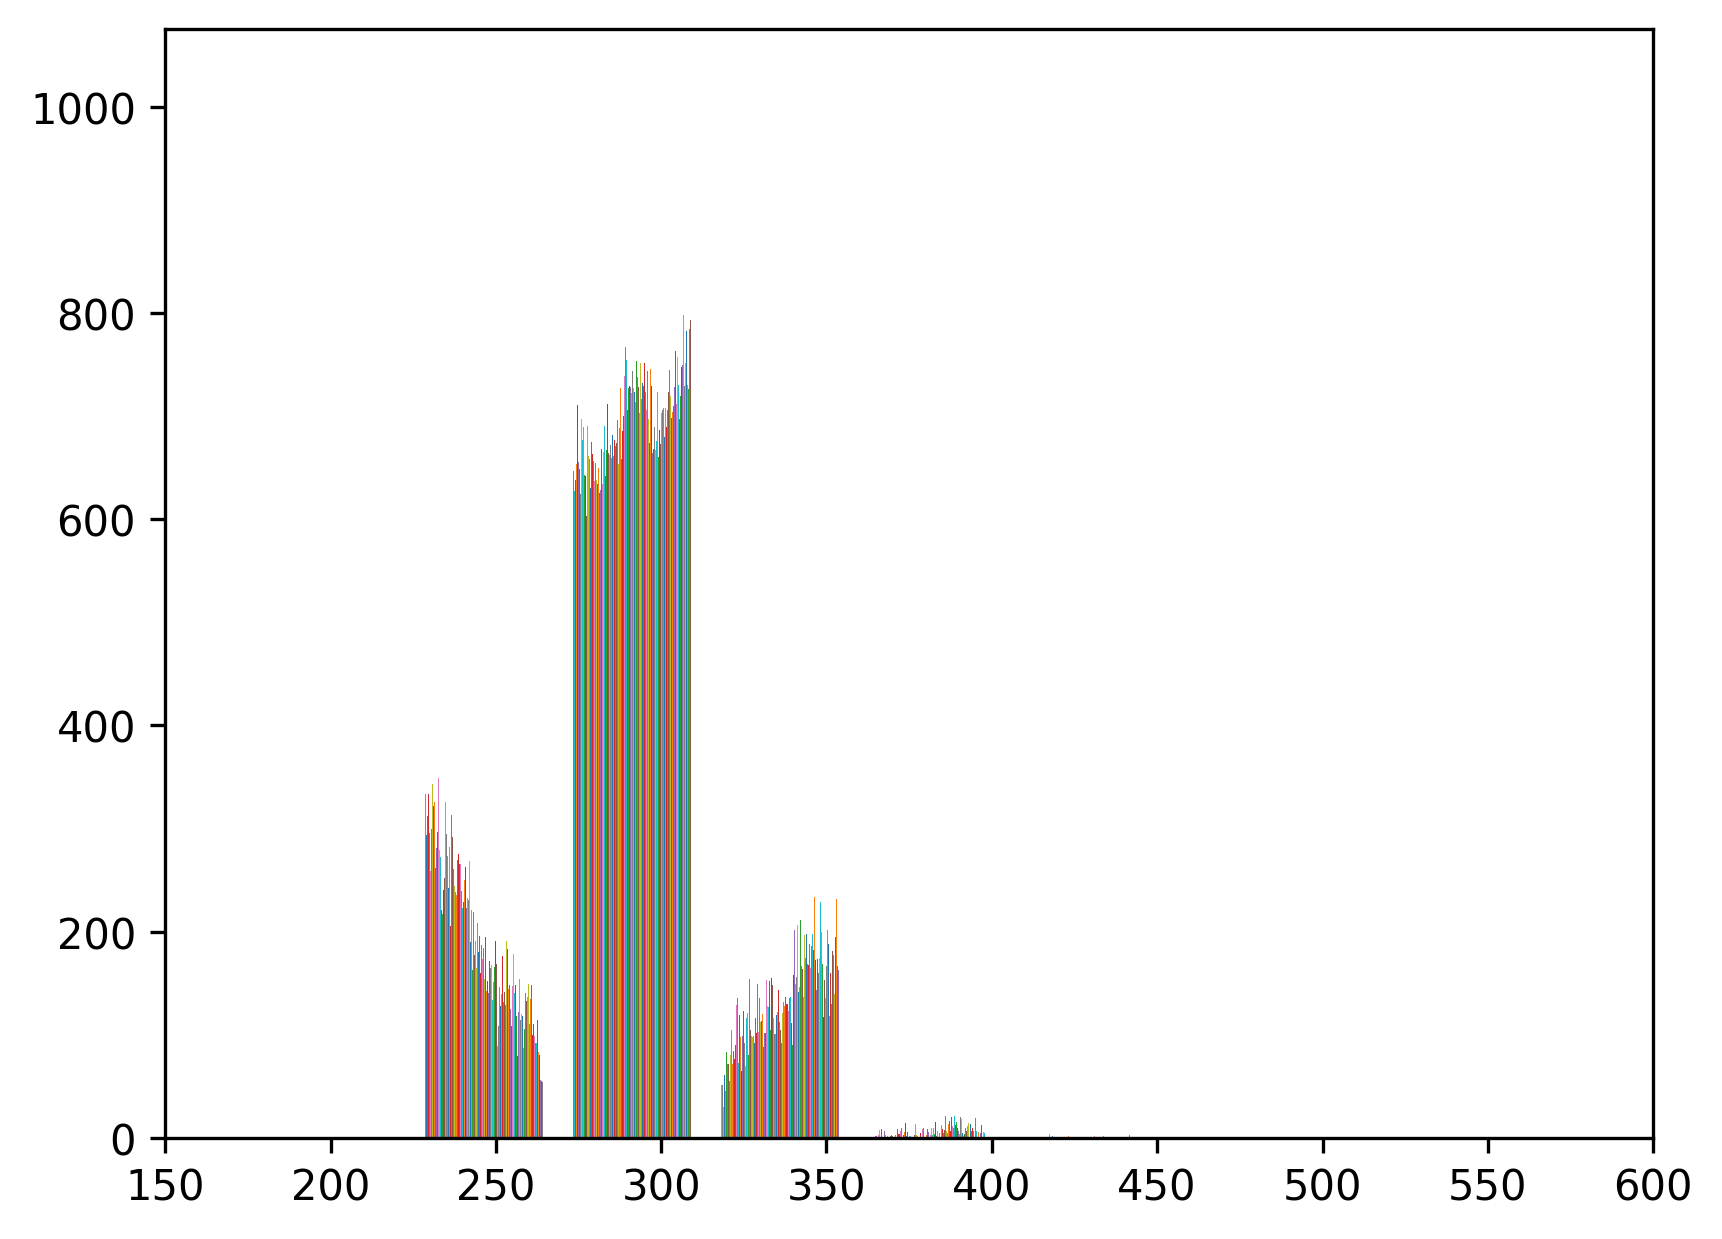
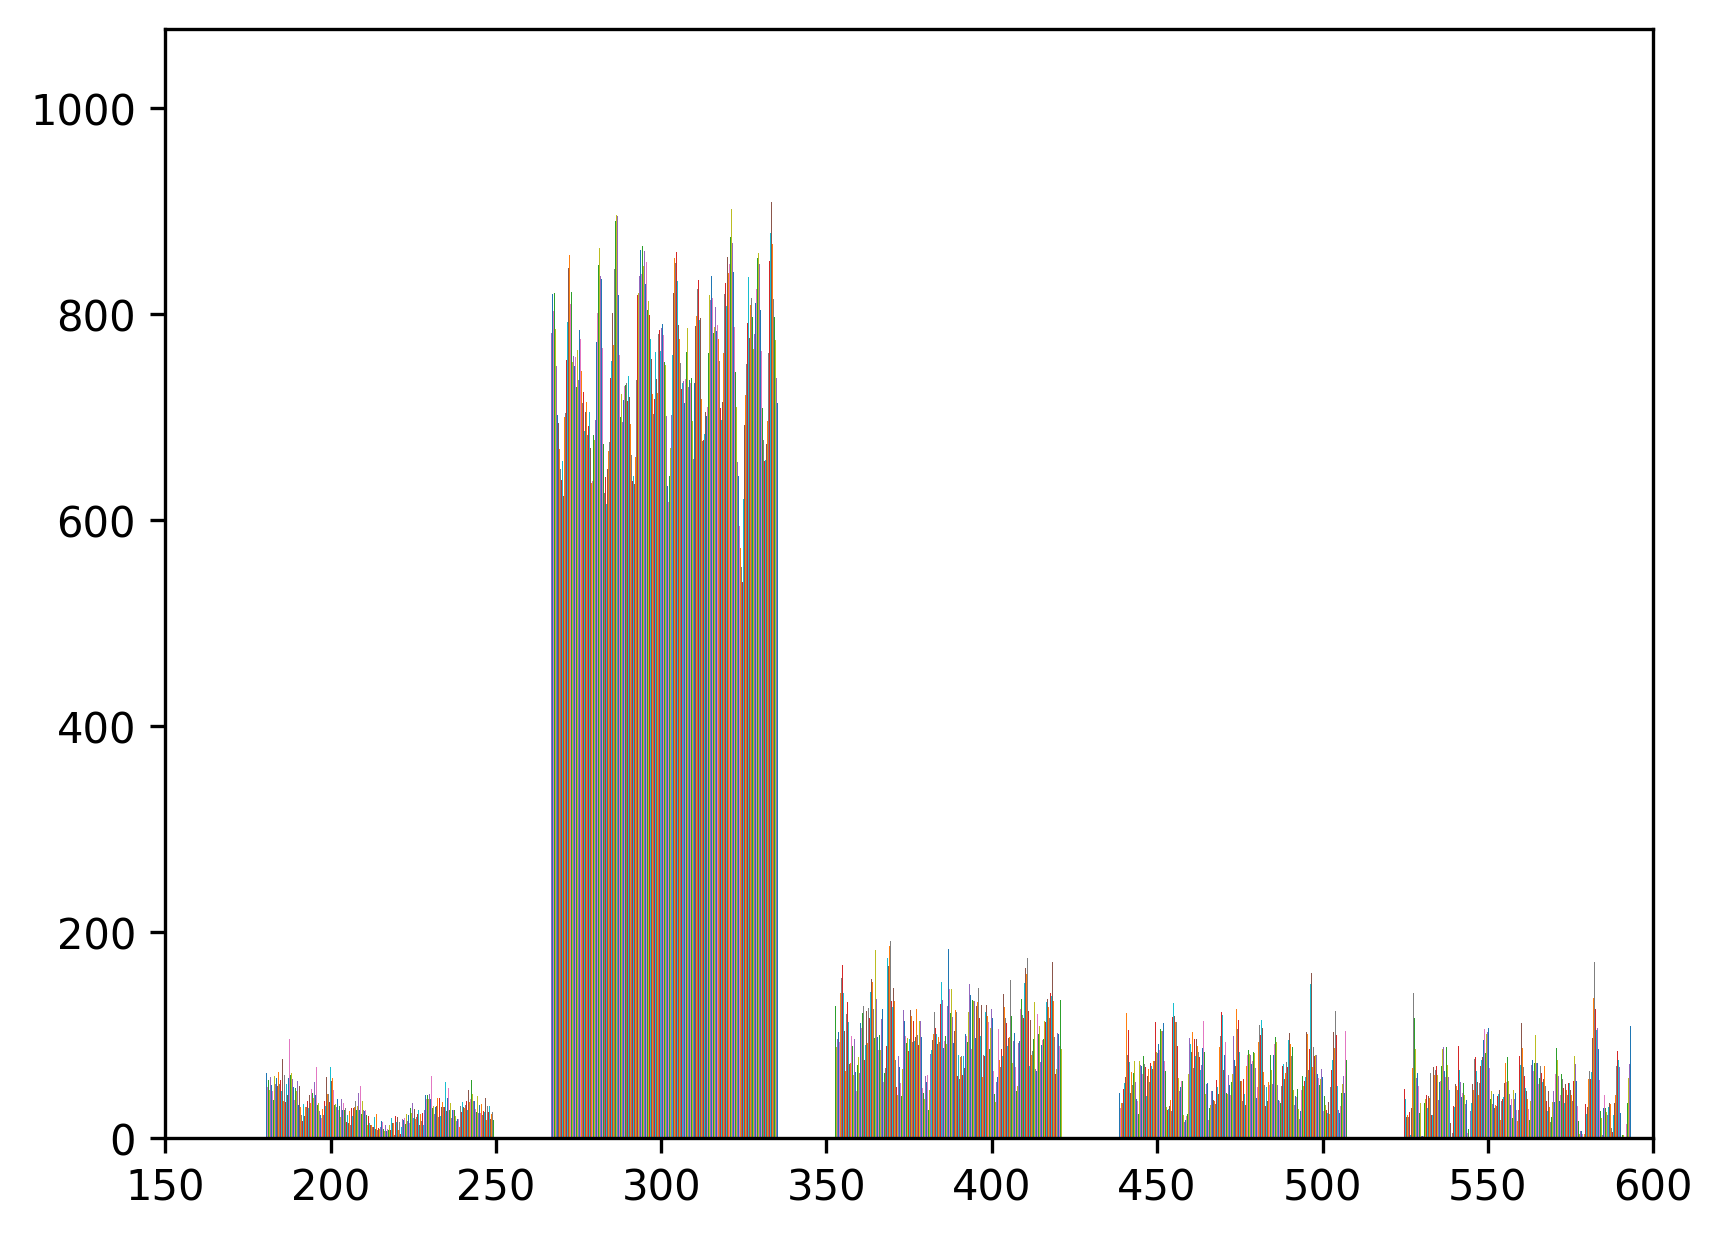
Plots added

diff --git a/data_analysis/post-processing/size_and_loc_plotter.py b/data_analysis/post-processing/size_and_loc_plotter.py
@@ -43,6 +43,8 @@ Output:
         cluster_size = []
         cluster_location_x = []
         cluster_location_y = []
+        cluster_change_from_init_x = []
+        cluster_change_from_init_y = []
 
         for i in range(start_time, end_time + 1, timejump):
             x = np.append(x, i)
@@ -64,6 +66,10 @@ Output:
                 cluster_size = np.append(cluster_size, 0)
                 cluster_location_x = np.append(cluster_location_x, None)
                 cluster_location_y = np.append(cluster_location_y, None)
+                # cluster_change_from_init_x = np.append(cluster_change_from_init_x,0)
+                # init_x = cluster_location_x
+                # cluster_change_from_init_y = np.append(cluster_change_from_init_y, 0)
+                # init_y = cluster_location_y
                 continue
             df1_slice = cluster_current_row_of_interest[['Cluster Centre x', 'Cluster Centre y']]
             centres_end_2D_lineage = df1_slice.to_numpy()
@@ -74,9 +80,19 @@ Output:
             cluster_location_x = np.append(cluster_location_x, int(centres_end_2D_lineage[0][0]))
             cluster_location_y = np.append(cluster_location_y, int(centres_end_2D_lineage[0][1]))
 
+            init_x = next(item for item in cluster_location_x if item is not None)
+            init_y = next(item for item in cluster_location_y if item is not None)
+
+            cluster_change_from_init_x = np.append(cluster_change_from_init_x, int(centres_end_2D_lineage[0][0]) - init_x)
+            cluster_change_from_init_y = np.append(cluster_change_from_init_y, int(centres_end_2D_lineage[0][1]) - init_y)
+
+
 
         plt.figure(1)
-        plt.plot(cluster_location_x, cluster_location_y)
+        # Location plot
+        # plt.plot(cluster_location_x, cluster_location_y)
+        # Spider plot
+        plt.plot(cluster_change_from_init_x, cluster_change_from_init_y, lw=2)
         # plt.show()
         
         plt.figure(2)
@@ -95,7 +111,10 @@ Output:
             print('B is', b)
             r = 1-g
             color = (r, g, b)
+            # Location plot
             plt.plot(cluster_location_x[i:i+2], cluster_location_y[i:i+2], c=color, lw=2)
+            # Spider plot
+            # plt.plot(cluster_change_from_init_x[i:i+2], cluster_change_from_init_y[i:i+2], c=color, lw=2)
             # plt.plot(cluster_location_x, cluster_location_y)
     plt.show()
     plt.show()

diff --git a/data_analysis/post-processing/hist_size_gif.py b/data_analysis/post-processing/hist_size_gif.py
@@ -2,6 +2,10 @@ import math
 import numpy as np
 import pandas as pd
 
+import glob
+from PIL import Image
+import time
+
 import matplotlib.pyplot as plt
 
 def hist_size_plotter(basedir, exp_type, exp_date, multi_loc, start_time, end_time, timestep):
@@ -20,8 +24,37 @@ def hist_size_plotter(basedir, exp_type, exp_date, multi_loc, start_time, end_ti
             cluster_areas = np.append(cluster_areas, cluster_areas_well_ID)
 
         cluster_number = cluster_areas/189
-        plt.hist(cluster_number)
-        plt.show()
+
+        plt.hist(cluster_number, bins=[0, 10, 20, 30, 40, 50, 60, 70, 80, 90, 120])
+        # plt.xlim(0,120)
+        plt.ylim(0,350)
+        plt.xlabel('Cluster size')
+        plt.ylabel('Number of clusters')        
+        # plt.show()
+        plt.savefig(f'/Users/Nathan/Documents/Oxford/DPhil/clusters/data_analysis/post-processing/histogram/frame-{i:03d}.png', bbox_inches='tight', dpi=300)
+        plt.clf()
+
+    images_hist = []
+    # get all the images in the 'images for gif' folder
+    for filename_hist in sorted(glob.glob('/Users/Nathan/Documents/Oxford/DPhil/clusters/data_analysis/post-processing/histogram/frame-*.png')): # loop through all png files in the folder
+        im_hist = Image.open(filename_hist) # open the image
+        images_hist.append(im_hist) # add the image to the list
+
+    # calculate the frame number of the last frame (ie the number of images)
+    last_frame = (len(images_hist)) 
+
+    # create 10 extra copies of the last frame (to make the gif spend longer on the most recent data)
+    for x in range(0, 9):
+        im_hist = images_hist[last_frame-1]
+        images_hist.append(im_hist)
+    
+    # get the current time to use in the filename
+    timestr = time.strftime("%Y%m%d-%H%M%S")
+    # save as a gif   
+    images_hist[0].save('/Users/Nathan/Documents/Oxford/DPhil/clusters/data_analysis/post-processing/histogram/' + timestr + '.gif',
+                save_all=True, append_images=images_hist[1:], optimize=False, duration=500, loop=0)
+
+
         # cluster_number_2D = np.round(cluster_number)
         # plt.hist(cluster_number_2D)
         # plt.show()

diff --git a/data_analysis/pre-processing/pre_process_plots.py b/data_analysis/pre-processing/pre_process_plots.py
@@ -23,14 +23,16 @@ experiment = 'RAW_data/2017-02-03_sphere_timelapse/'
 experiment = 'RAW_data/2017-02-13_sphere_timelapse_2/'
 # exp_date = '2017-02-03'
 # exp_date = '2017-02-13'
-exp_date = '2017-03-16'
+exp_date = '2017-03-10'
+# exp_date = '2017-03-16'
 folder = 'RAW/Timelapse/sphere_timelapse_useful_wells/'
 folder_3 = 'sphere_timelapse/'
 fileID = '.tif'
 
 # time_array = range(1,98)
 # time_array = range(1,95)
-time_array = range(1,146)
+# time_array = range(1,146)
+time_array = range(1,143)
 
 # Rename single digit values with 0 eg 1 to 01 for consistency
 # time_list = [str(x).zfill(2) for x in time_array]
@@ -41,8 +43,9 @@ time_list = [str(x).zfill(3) for x in time_array]
 # well_loc = 's11'
 # well_loc = 's12'
 # well_loc = 's27'
-well_loc = 's037'
+# well_loc = 's037'
 # well_loc = 's073'
+well_loc = 's25'
 
 # Does the histogram get plotted
 plot_hist = True

diff --git a/data_analysis/post-processing/post_processing_plots.py b/data_analysis/post-processing/post_processing_plots.py
@@ -9,14 +9,14 @@ exp_type = 'In_vitro_homogeneous_data/'
 exp_date = '2017-02-03'
 # exp_date = '2017-02-13'
 
-well_loc = 's12'
+well_loc = 's11'
 
 multi_loc = ['s11', 's12']
 
 #cluster_lineage = ltf.lineage_tracer(51,97, basedir, exp_date, well_loc, plots = False)
 #slp.size_and_loc_tracker(37, 97, 10, basedir, exp_date, well_loc, cluster_lineage)
 
-hsg.hist_size_plotter(basedir, exp_type, exp_date, multi_loc, 37, 97, 5)
+# hsg.hist_size_plotter(basedir, exp_type, exp_date, multi_loc, 37, 97, 5)
 
 slp.size_and_loc_tracker(37, 94, 5, basedir, exp_type, exp_date, well_loc, [])
 

diff --git a/data_analysis/post-processing/post_processing_runner.py b/data_analysis/post-processing/post_processing_runner.py
@@ -26,7 +26,8 @@ fileID = '.tif'
 
 # time_array = range(1,98)
 # time_array = range(1,95)
-time_array = range(1,146)
+# time_array = range(1,146)
+time_array = range(1,143)
 
 # Rename single digit values with 0 eg 1 to 01 for consistency
 # time_list = [str(x).zfill(2) for x in time_array]

diff --git a/data_analysis/pre-processing/test_code/hist_pixel.py b/data_analysis/pre-processing/test_code/hist_pixel.py
@@ -16,7 +16,7 @@ exp_date = '2017-02-03'
 folder = 'RAW/Timelapse/sphere_timelapse_useful_wells/'
 fileID = '.tif'
 time_list = range(42,98,5)
-well_loc = 's09'
+well_loc = 's11'
 
 # get the current time to use in the filename
 timestr = time.strftime("%Y%m%d-%H%M%S")

diff --git a/data_analysis/pre-processing/test_code/unsupervised_segmentation.py b/data_analysis/pre-processing/test_code/unsupervised_segmentation.py
@@ -42,7 +42,7 @@ exp_date = '2017-02-03'
 folder = 'RAW/Timelapse/sphere_timelapse_useful_wells/'
 fileID = '.tif'
 time_list = range(42,98,5)
-well_loc = 's11'
+well_loc = 's09'
 
 
 for i in range(67,68,1):

diff --git a/data_analysis/pre-processing/pre_process_runner.py b/data_analysis/pre-processing/pre_process_runner.py
@@ -49,7 +49,7 @@ time_list = [str(x).zfill(3) for x in time_array]
 # well_loc = 's037'
 # well_loc = 's074'
 
-well_loc = 's25'
+well_loc = 's27'
 # 25,26,27
 
 # threshold = 320
